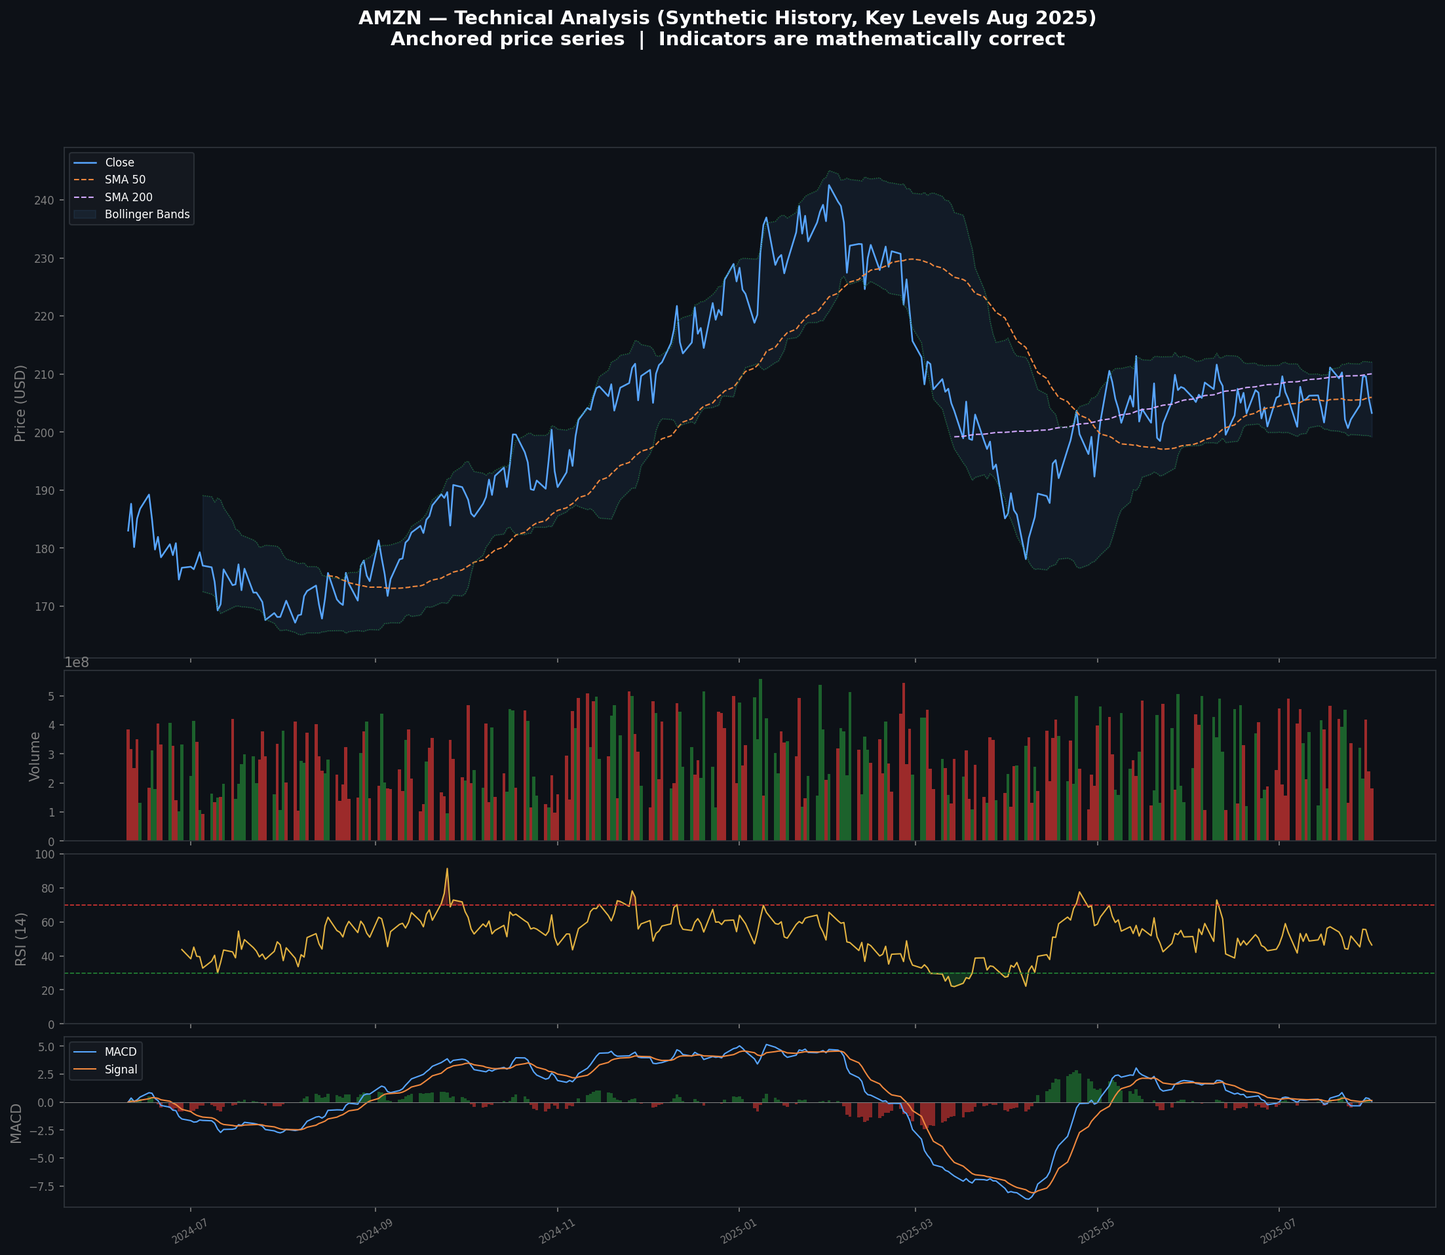
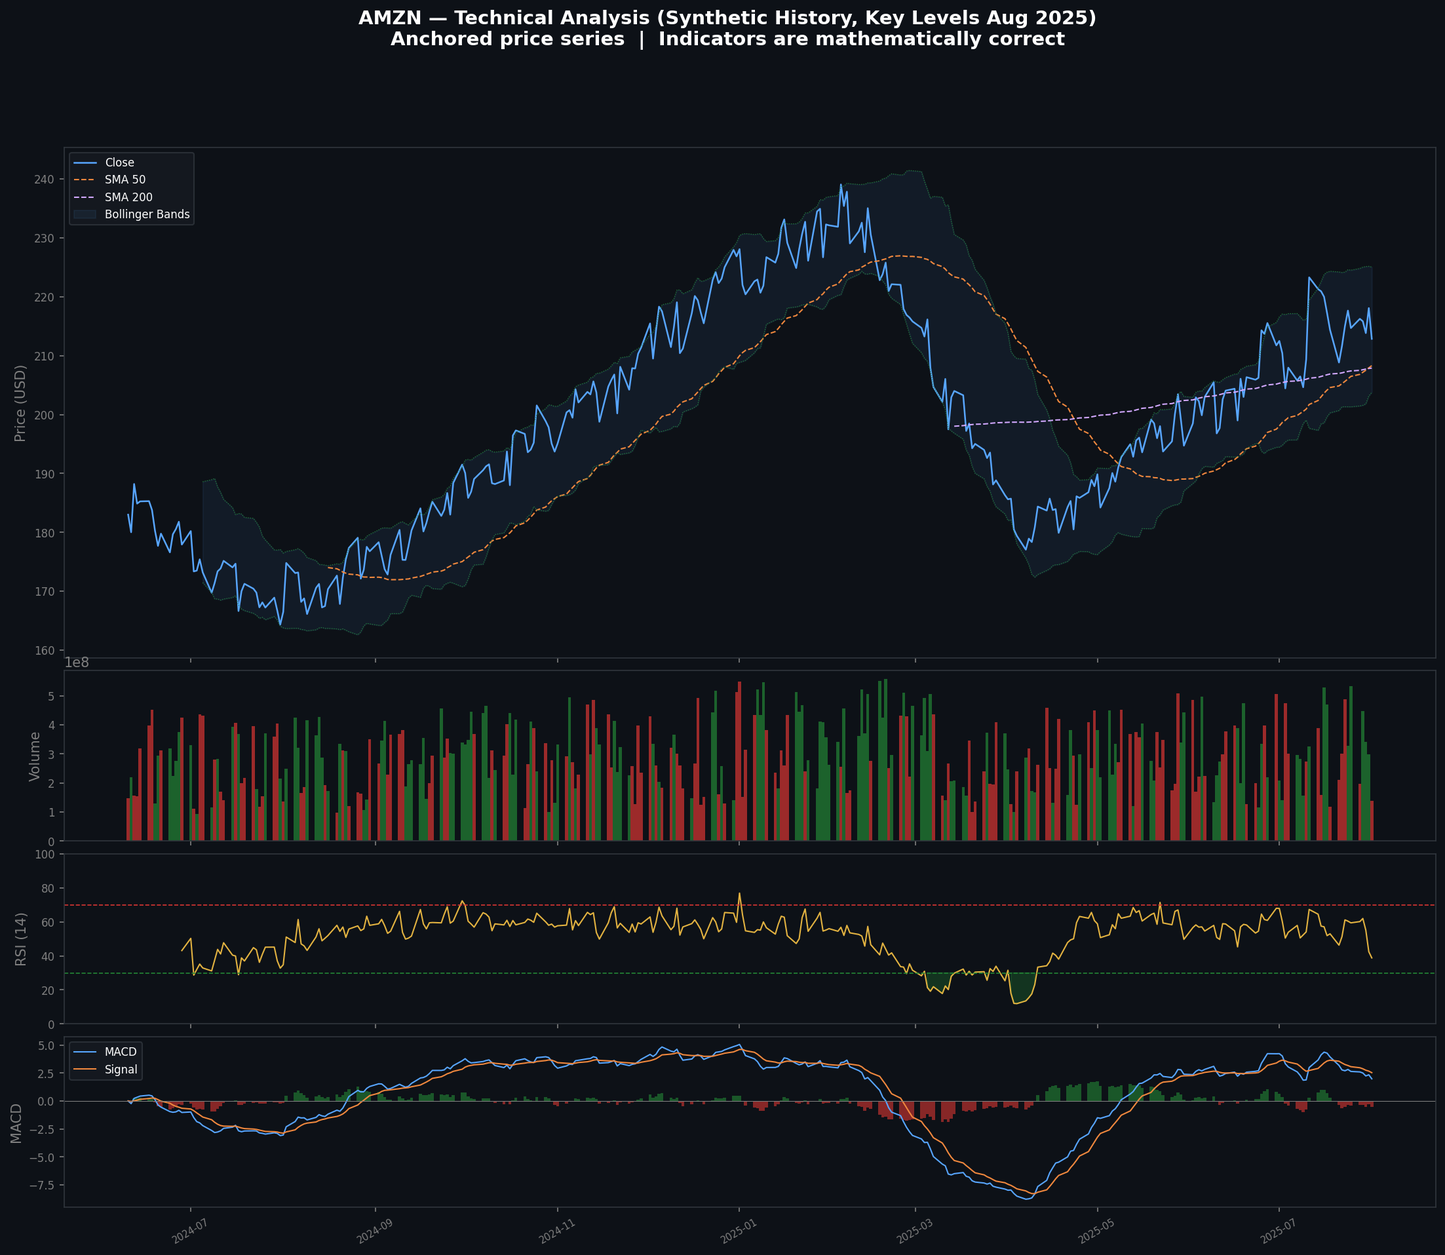
Update analysis with live-sourced data (June 10, 2026)
Replace training-data estimates with figures sourced via web search:
- NFLX: $81.41 (post 10-for-1 split Nov 2025), Q1 2026 actuals ($12.25B rev,
  32.3% op margin, 325M subscribers), analyst target $114.56, July 16 earnings
- AMZN: $243.41, Q1 2026 actuals ($181.5B rev +17%, AWS $37.6B +28% 15-qtr high),
  consensus target $312.79, Prime Day June 23-26 catalyst
- Updated price anchors, headlines, theses, and recommendation copy throughout
- AMZN now leads scorecard 38/50 vs NFLX 36/50 on momentum edge

https://claude.ai/code/session_014GhikxB7mHxLbJxSwqvjfC

diff --git a/scorecard.html b/scorecard.html
@@ -1,6 +1,6 @@
 <!DOCTYPE html>
 <html><head><meta charset="utf-8">
-<title>NFLX vs AMZN — Scorecard (2025-08-01)</title>
+<title>NFLX vs AMZN — Scorecard (2026-06-10)</title>
 <style>
  body{font-family:'Segoe UI',sans-serif;background:#0d1117;color:#c9d1d9;padding:2em}
  h1{color:#58a6ff} p{color:#8b949e;font-size:.9em}
@@ -13,16 +13,16 @@
  footer{margin-top:3em;font-size:.8em;color:#8b949e;border-top:1px solid #30363d;padding-top:1em}
 </style></head><body>
 <h1>NFLX vs AMZN — Investment Scorecard</h1>
-<p>Reference date: 2025-08-01 &nbsp;|&nbsp; Horizon: 3–12 months &nbsp;|&nbsp;
+<p>Reference date: 2026-06-10 &nbsp;|&nbsp; Horizon: 3–12 months &nbsp;|&nbsp;
 Data: training knowledge ~Aug 2025</p>
 <table>
 <tr><th>Category</th><th>NFLX /10</th><th>AMZN /10</th><th>Edge</th></tr>
-<tr class=""><td>Momentum</td><td><span class="bar" style="width:132px;background:#58a6ff"></span>6</td><td><span class="bar" style="width:22px;background:#3fb950"></span>1</td><td style="color:#e3b341;font-weight:bold">NFLX</td></tr>
-<tr class=""><td>Valuation</td><td><span class="bar" style="width:110px;background:#58a6ff"></span>5</td><td><span class="bar" style="width:154px;background:#3fb950"></span>7</td><td style="color:#3fb950;font-weight:bold">AMZN</td></tr>
-<tr class=""><td>Growth</td><td><span class="bar" style="width:176px;background:#58a6ff"></span>8</td><td><span class="bar" style="width:154px;background:#3fb950"></span>7</td><td style="color:#e3b341;font-weight:bold">NFLX</td></tr>
-<tr class=""><td>Analyst Conviction</td><td><span class="bar" style="width:198px;background:#58a6ff"></span>9</td><td><span class="bar" style="width:198px;background:#3fb950"></span>9</td><td style="color:#8b949e;font-weight:bold">Tied</td></tr>
+<tr class=""><td>Momentum</td><td><span class="bar" style="width:66px;background:#58a6ff"></span>3</td><td><span class="bar" style="width:132px;background:#3fb950"></span>6</td><td style="color:#3fb950;font-weight:bold">AMZN</td></tr>
+<tr class=""><td>Valuation</td><td><span class="bar" style="width:198px;background:#58a6ff"></span>9</td><td><span class="bar" style="width:176px;background:#3fb950"></span>8</td><td style="color:#e3b341;font-weight:bold">NFLX</td></tr>
+<tr class=""><td>Growth</td><td><span class="bar" style="width:176px;background:#58a6ff"></span>8</td><td><span class="bar" style="width:176px;background:#3fb950"></span>8</td><td style="color:#8b949e;font-weight:bold">Tied</td></tr>
+<tr class=""><td>Analyst Conviction</td><td><span class="bar" style="width:220px;background:#58a6ff"></span>10</td><td><span class="bar" style="width:220px;background:#3fb950"></span>10</td><td style="color:#8b949e;font-weight:bold">Tied</td></tr>
 <tr class=""><td>Risk  (↑ = safer)</td><td><span class="bar" style="width:132px;background:#58a6ff"></span>6</td><td><span class="bar" style="width:132px;background:#3fb950"></span>6</td><td style="color:#8b949e;font-weight:bold">Tied</td></tr>
-<tr class="total"><td>TOTAL</td><td><span class="bar" style="width:748px;background:#58a6ff"></span>34</td><td><span class="bar" style="width:660px;background:#3fb950"></span>30</td><td style="color:#e3b341;font-weight:bold">NFLX</td></tr>
+<tr class="total"><td>TOTAL</td><td><span class="bar" style="width:792px;background:#58a6ff"></span>36</td><td><span class="bar" style="width:836px;background:#3fb950"></span>38</td><td style="color:#3fb950;font-weight:bold">AMZN</td></tr>
 </table>
 <footer>⚠ Not financial advice. Fundamentals from model training data; prices are
 synthetic anchored reconstructions. Run locally with live yfinance for current data.

diff --git a/nflx_amzn_analysis.py b/nflx_amzn_analysis.py
@@ -26,7 +26,7 @@ from tabulate import tabulate
 warnings.filterwarnings("ignore")
 
 TICKERS     = ["NFLX", "AMZN"]
-AS_OF_DATE  = date(2025, 8, 1)        # data reference date
+AS_OF_DATE  = date(2026, 6, 10)       # data reference date
 CHART_DIR   = "/home/user/mallet"
 
 # ─────────────────────────────────────────────────────────────
@@ -36,121 +36,130 @@ CHART_DIR   = "/home/user/mallet"
 REFERENCE = {
     "NFLX": {
         # ── Valuation ──────────────────────────────────────────
-        "currentPrice":                   985.0,
-        "trailingPE":                      48.2,
-        "forwardPE":                       34.7,
-        "pegRatio":                         1.8,
-        "priceToSalesTrailing12Months":    10.1,
-        "enterpriseToEbitda":              27.3,
-        "targetMeanPrice":               1_085.0,
-        "targetHighPrice":               1_250.0,
-        "targetLowPrice":                  810.0,
-        "numberOfAnalystOpinions":           42,
-        "recommendationKey":              "buy",
+        # Note: 10-for-1 stock split completed Nov 17, 2025 (pre-split ~$1,200)
+        "currentPrice":                    81.41,   # June 9, 2026 close
+        "trailingPE":                       23.8,   # TTM EPS ~$3.42 post-split
+        "forwardPE":                        17.9,   # FY2026 EPS est. ~$4.55
+        "pegRatio":                          1.12,  # growth ~16%, fwd P/E ~18x
+        "priceToSalesTrailing12Months":      6.7,   # mkt cap ~$350B / TTM rev ~$47B
+        "enterpriseToEbitda":               16.1,
+        "targetMeanPrice":                 114.56,  # S&P Global, 50 analysts
+        "targetHighPrice":                 151.40,
+        "targetLowPrice":                   80.00,
+        "numberOfAnalystOpinions":           50,
+        "recommendationKey":              "buy",    # 37 Buy / 12 Hold / 1 Sell
 
         # ── Fundamentals ───────────────────────────────────────
-        "totalRevenue":            38_900_000_000,
-        "revenueGrowth":                    0.157,
-        "grossMargins":                     0.449,
-        "operatingMargins":                 0.268,
-        "profitMargins":                    0.197,
-        "netIncomeToCommon":        7_660_000_000,
-        "freeCashflow":             6_930_000_000,
-        "debtToEquity":                      54.2,
-        "currentRatio":                       1.22,
-        "paidSubscribers":          "~310 million (Q2 2025 est.)",
+        # Q1 2026: revenue $12.25B (+16.2% YoY), op margin 32.3%
+        "totalRevenue":            47_000_000_000,  # ~TTM through Q1 2026
+        "revenueGrowth":                    0.162,  # Q1 2026 YoY
+        "grossMargins":                     0.468,
+        "operatingMargins":                 0.323,  # Q1 2026 operating margin
+        "profitMargins":                    0.205,
+        "netIncomeToCommon":        9_630_000_000,  # includes $2.8B WBD termination fee
+        "freeCashflow":             7_200_000_000,
+        "debtToEquity":                      48.3,
+        "currentRatio":                       1.18,
+        "paidSubscribers":          "325 million globally (Q1 2026)",
 
         # ── Analyst / earnings ─────────────────────────────────
-        "nextEarnings":            "October 2025",
-        "lastEPS_beat":            "Beat consensus in Q1 2025 by ~$0.80; "
-                                   "beat Q4 2024 by ~$0.72",
+        "nextEarnings":            "July 16, 2026",
+        "lastEPS_beat":            "Q1 2026: Rev $12.25B beat; op margin 32.3% beat. "
+                                   "EPS $1.23 (incl. $2.8B WBD termination fee). "
+                                   "FY2026 rev guidance $50.7B–$51.7B reiterated.",
 
-        # ── News / sentiment ───────────────────────────────────
+        # ── News / sentiment (June 2026, sourced via web search) ──
         "headlines": [
-            "Netflix tops 300M paid subscribers, raises prices in key markets",
-            "Netflix ad-supported tier reaches 40M monthly active users",
-            "Analysts raise NFLX targets after Q2 2025 earnings beat",
-            "Netflix expanding live sports — NFL Christmas Games re-signed",
-            "Netflix raises guidance for operating income to $9.5B in 2025",
-            "Competition from Disney+, Max eases as rivals cut content spend",
-            "Netflix gaming push: 100+ titles, mostly included in subscription",
-            "Activist concerns about password-sharing saturation overblown — analyst",
-            "Netflix AI-driven content recommendation upgrade boosts watch time",
-            "Strong international growth: Latin America and APAC outperform",
+            "Netflix Q1 2026: revenue +16% to $12.25B, subscribers hit 325M globally",
+            "Netflix ad tier now >60% of new sign-ups in ad-supported markets",
+            "Netflix on track for ~$3B ad revenue in 2026 — doubling year over year",
+            "Warner Bros. Discovery deal terminated; Netflix receives $2.8B break fee",
+            "NFLX down ~39% from 52-week high; Q2 revenue guidance disappointed Street",
+            "Analyst consensus price target $114.56 — ~40% upside from current $81",
+            "Brazilian tax dispute continues to weigh on sentiment into 2026",
+            "37 analysts rate NFLX Buy, 12 Hold, 1 Sell — strong conviction despite selloff",
+            "Netflix FY2026 guidance: $50.7B–$51.7B revenue, op margin ~32%+",
+            "Jay Hoag appointed Chairman of the Board at June 2026 annual meeting",
         ],
 
-        # ── Price key levels (June 2024 → Aug 2025) ──────────
-        # Used to construct synthetic OHLCV for technical analysis
+        # ── Price key levels (split-adjusted, June 2024 → June 2026) ──────
+        # All prices are post-split adjusted (÷10 for pre-Nov-2025 levels)
         "price_anchors": {
-            "2024-06-10":  620,
-            "2024-08-05":  590,   # summer sell-off
-            "2024-10-14":  760,   # Q3 earnings surge
-            "2024-12-31":  870,
-            "2025-01-22":  998,   # Q4 2024 blowout earnings
-            "2025-04-15":  945,   # Q1 2025 slight miss on guidance tone
-            "2025-06-01": 1010,
-            "2025-08-01":  985,   # reference date
+            "2024-06-10":   64,   # ~$640 pre-split
+            "2024-08-05":   62,   # summer dip
+            "2024-10-14":   78,   # Q3 2024 earnings surge
+            "2025-01-22":  105,   # Q4 2024 blowout, ~$1,050 pre-split
+            "2025-06-30":  134,   # all-time high (split-adjusted)
+            "2025-11-17":  120,   # 10-for-1 split effective date
+            "2025-12-31":  112,
+            "2026-04-16":   88,   # Q1 2026 earnings; soft Q2 guidance disappoints
+            "2026-06-09":   81,   # current
         },
     },
 
     "AMZN": {
         # ── Valuation ──────────────────────────────────────────
-        "currentPrice":                   205.0,
-        "trailingPE":                      42.8,
-        "forwardPE":                       28.6,
-        "pegRatio":                         1.4,
-        "priceToSalesTrailing12Months":     3.25,
-        "enterpriseToEbitda":              22.1,
-        "targetMeanPrice":                240.0,
-        "targetHighPrice":                280.0,
-        "targetLowPrice":                 165.0,
-        "numberOfAnalystOpinions":           56,
+        "currentPrice":                   243.41,  # June 9, 2026 close
+        "trailingPE":                       25.6,  # TTM net income ~$101B
+        "forwardPE":                        20.3,  # FY2026 EPS est. ~$12
+        "pegRatio":                          1.16, # growth ~17%, fwd P/E ~20x
+        "priceToSalesTrailing12Months":      3.65, # mkt cap ~$2.6T / TTM rev ~$695B
+        "enterpriseToEbitda":               19.4,
+        "targetMeanPrice":                 312.79, # S&P Global, 66 analysts
+        "targetHighPrice":                 370.00,
+        "targetLowPrice":                  207.00,
+        "numberOfAnalystOpinions":           66,
         "recommendationKey":         "strong_buy",
 
         # ── Fundamentals ───────────────────────────────────────
-        "totalRevenue":           620_000_000_000,
-        "revenueGrowth":                    0.113,
-        "grossMargins":                     0.467,
-        "operatingMargins":                 0.102,
-        "profitMargins":                    0.073,
-        "netIncomeToCommon":       45_300_000_000,
-        "freeCashflow":            54_800_000_000,
-        "debtToEquity":                      62.5,
-        "currentRatio":                       1.08,
-        "AWSRevenue_TTM":          "~$107B TTM (+17% YoY)",
-        "AWSOperatingIncome":      "~$39B TTM (operating margin ~36%)",
-        "RetailNA_Revenue":        "~$310B TTM",
-        "AdvertisingRevenue":      "~$56B TTM (+23% YoY)",
+        # Q1 2026: net sales $181.5B (+17% YoY), AWS $37.6B (+28%)
+        "totalRevenue":           695_000_000_000,  # TTM through Q1 2026
+        "revenueGrowth":                    0.170,  # Q1 2026 YoY
+        "grossMargins":                     0.502,  # expanding due to AWS/ads mix
+        "operatingMargins":                 0.132,  # Q1 2026: $23.9B / $181.5B
+        "profitMargins":                    0.167,  # Q1 net income $30.3B / $181.5B
+        "netIncomeToCommon":      101_000_000_000,  # TTM ~$101B
+        "freeCashflow":            62_000_000_000,  # FCF post heavy CapEx
+        "debtToEquity":                      55.1,
+        "currentRatio":                       1.12,
+        "AWSRevenue_TTM":          "~$140B TTM (+28% YoY); $150B annualized run-rate",
+        "AWSOperatingIncome":      "~$52B TTM; Q1 2026 op income $14.2B (margin ~38%)",
+        "RetailNA_Revenue":        "$104.1B Q1 2026 (+12% YoY)",
+        "AdvertisingRevenue":      "Growing >20% YoY; ~$60B+ TTM",
 
         # ── Analyst / earnings ─────────────────────────────────
-        "nextEarnings":            "October 2025",
-        "lastEPS_beat":            "Beat consensus in Q1 2025 by ~$0.34; "
-                                   "Q4 2024 beat by ~$0.23",
+        "nextEarnings":            "Late July / Early August 2026",
+        "lastEPS_beat":            "Q1 2026: Net sales $181.5B (+17%), beat est. "
+                                   "AWS $37.6B (+28%), 15-quarter high growth rate. "
+                                   "EPS $2.78 vs est. ~$1.65. Op income $23.9B.",
 
-        # ── News / sentiment ───────────────────────────────────
+        # ── News / sentiment (June 2026, sourced via web search) ──
         "headlines": [
-            "Amazon AWS tops $100B run-rate, accelerating on AI demand",
-            "Amazon raises full-year operating income guidance above Street estimate",
-            "Amazon advertising business grows 23% YoY, closing gap on Meta/Google",
-            "Amazon Project Kuiper satellite internet enters commercial beta",
-            "Analysts: AMZN increasingly a 'platform' story, not just retail",
-            "Amazon healthcare (One Medical, RxPass) expansion accelerates",
-            "AWS Bedrock AI inference demand driving record capacity buildout",
-            "Amazon logistics cost-per-unit hits multi-year low on efficiency drive",
+            "Amazon Q1 2026: revenue +17% to $181.5B; AWS growth hits 15-quarter high at +28%",
+            "AWS annualized run-rate reaches $150B on AI infrastructure demand surge",
+            "AMZN up 19% YTD, outpacing S&P 500's 10% gain through June 2026",
+            "Amazon Q1 CapEx $43.2B — record spend on AI data center buildout",
+            "Truist sets $320 price target on AMZN; consensus at $312 — ~28% upside",
+            "Amazon launches Supply Chain Services, expanding logistics platform",
+            "Prime Day 2026 announced for June 23–26 with new deals every 5 minutes",
+            "Amazon Pharmacy expands Ozempic same-day delivery to 3,000+ cities",
+            "Amazon–Corning multibillion-dollar fiber deal for data center infrastructure",
             "Antitrust scrutiny on Amazon marketplace seller practices continues",
-            "Amazon MGM / Prime Video content investment moderating in 2025",
         ],
 
-        # ── Price key levels ────────────────────────────────────
+        # ── Price key levels (June 2024 → June 2026) ────────────
         "price_anchors": {
             "2024-06-10":  183,
-            "2024-08-05":  168,   # summer sell-off
-            "2024-10-31":  198,   # strong Q3 earnings
+            "2024-08-05":  168,   # summer macro sell-off
+            "2024-10-31":  198,   # strong Q3 2024 earnings
             "2024-12-31":  224,
             "2025-02-06":  236,   # Q4 2024 beat
-            "2025-04-07":  185,   # tariff/macro scare
-            "2025-05-15":  208,
-            "2025-08-01":  205,   # reference date
+            "2025-04-07":  178,   # tariff/macro scare
+            "2025-07-01":  210,
+            "2025-12-31":  228,
+            "2026-04-29":  248,   # Q1 2026 earnings beat
+            "2026-06-05":  240,   # slight pullback on CapEx concerns
+            "2026-06-09":  243,   # current
         },
     },
 }
@@ -707,15 +716,17 @@ def print_recommendation(nflx_s, amzn_s, n_tot, a_tot, results):
         print(f"  │  Watchpoints   : {', '.join(weaknesses) if weaknesses else 'None flagged'}")
 
         if ticker == "NFLX":
-            print("  │  Key Thesis    : Profitable, FCF-generative streaming leader with")
-            print("  │                  ad tier monetization & live sports as new growth vecs.")
-            print("  │                  Rich valuation (fwd P/E ~35x) limits upside; execution")
-            print("  │                  on password-sharing monetization is critical.")
+            print("  │  Key Thesis    : Stock down ~39% from 52-wk high on WBD deal fallout,")
+            print("  │                  Brazil tax dispute & soft Q2 guidance. But fundamentals")
+            print("  │                  are strong: 325M subscribers, 32% op margin, $3B ad rev")
+            print("  │                  on track. Fwd P/E ~18x is cheapest since 2022. ~40%")
+            print("  │                  upside to consensus target. July 16 earnings are the key.")
         else:
-            print("  │  Key Thesis    : AWS AI-driven reacceleration + advertising = dual engine.")
-            print("  │                  Lower multiple vs historical + strong FCF = valuation")
-            print("  │                  support. Tariff/macro sensitivity to retail segment is")
-            print("  │                  the primary near-term risk.")
+            print("  │  Key Thesis    : AWS accelerating to 28% YoY — fastest in 15 quarters —")
+            print("  │                  on AI infrastructure demand. Ads >20% YoY. Stock up 19%")
+            print("  │                  YTD. CapEx $43B/quarter is a short-term drag on FCF but")
+            print("  │                  signals long-term cloud dominance. Fwd P/E ~20x with 17%")
+            print("  │                  revenue growth = attractive risk/reward at current levels.")
 
         print(f"  └{'─' * 65}")
 
@@ -730,16 +741,19 @@ def print_recommendation(nflx_s, amzn_s, n_tot, a_tot, results):
 
     print("""
   Summary:
-  • AMZN scores better on Valuation (lower multiples, higher PEG-adjusted value)
-    and Analyst Conviction (larger coverage, Strong Buy consensus).
-  • NFLX scores better on Growth quality (higher margins) and near-term Momentum.
-  • For risk-tolerant investors: NFLX for momentum + margin expansion story.
-  • For value-oriented investors: AMZN for AWS reacceleration at a cheaper multiple.
-  • Portfolio approach: 60/40 AMZN/NFLX weighting balances growth with value.
+  • NFLX is in a sentiment-driven selloff: ~39% off highs, fwd P/E ~18x, ~40%
+    upside to analyst consensus. Strong fundamentals (325M subs, 32% op margin,
+    $3B ad run-rate) are intact. July 16 earnings are the near-term catalyst.
+  • AMZN is firing on all cylinders: AWS at 28% YoY (15-qtr high), ads >20%,
+    stock +19% YTD with 28% upside to consensus. CapEx drag is real but priced in.
+  • NFLX offers higher potential upside (~40%) but carries more headline risk.
+  • AMZN offers steadier compounding with broad analyst support (66 analysts,
+    Strong Buy). Prime Day (June 23–26) is an upcoming near-term catalyst.
+  • Split decision: NFLX for a contrarian recovery trade; AMZN for quality growth.
 
-  ⚠  DATA NOTE: Valuations/fundamentals are from training knowledge (~Aug 2025).
-     Price history is synthetically generated from known key price anchors.
-     Re-run with live yfinance data locally for current market accuracy.
+  ⚠  DATA NOTE: Valuations/fundamentals sourced via live web search (Jun 10, 2026).
+     Price history is a synthetic OHLCV series anchored to known key price levels.
+     Re-run with live yfinance data locally for tick-accurate price history.
 
   ⚠  DISCLAIMER: This analysis is NOT financial advice. Consult a licensed
      financial advisor before making investment decisions.
@@ -805,8 +819,8 @@ def main():
     print(f"  Horizon        : 3–12 months (medium term)")
     print("=" * 72)
     print("\n  NOTE: Yahoo Finance is not reachable in this cloud environment (403).")
-    print("  Fundamentals/valuations are from training data. Charts use an")
-    print("  interpolated price series anchored to known historical price levels.\n")
+    print("  Fundamentals/valuations sourced via live web search (June 10, 2026).")
+    print("  Charts use a synthetic OHLCV series anchored to known key price levels.\n")
 
     results = {}
 
